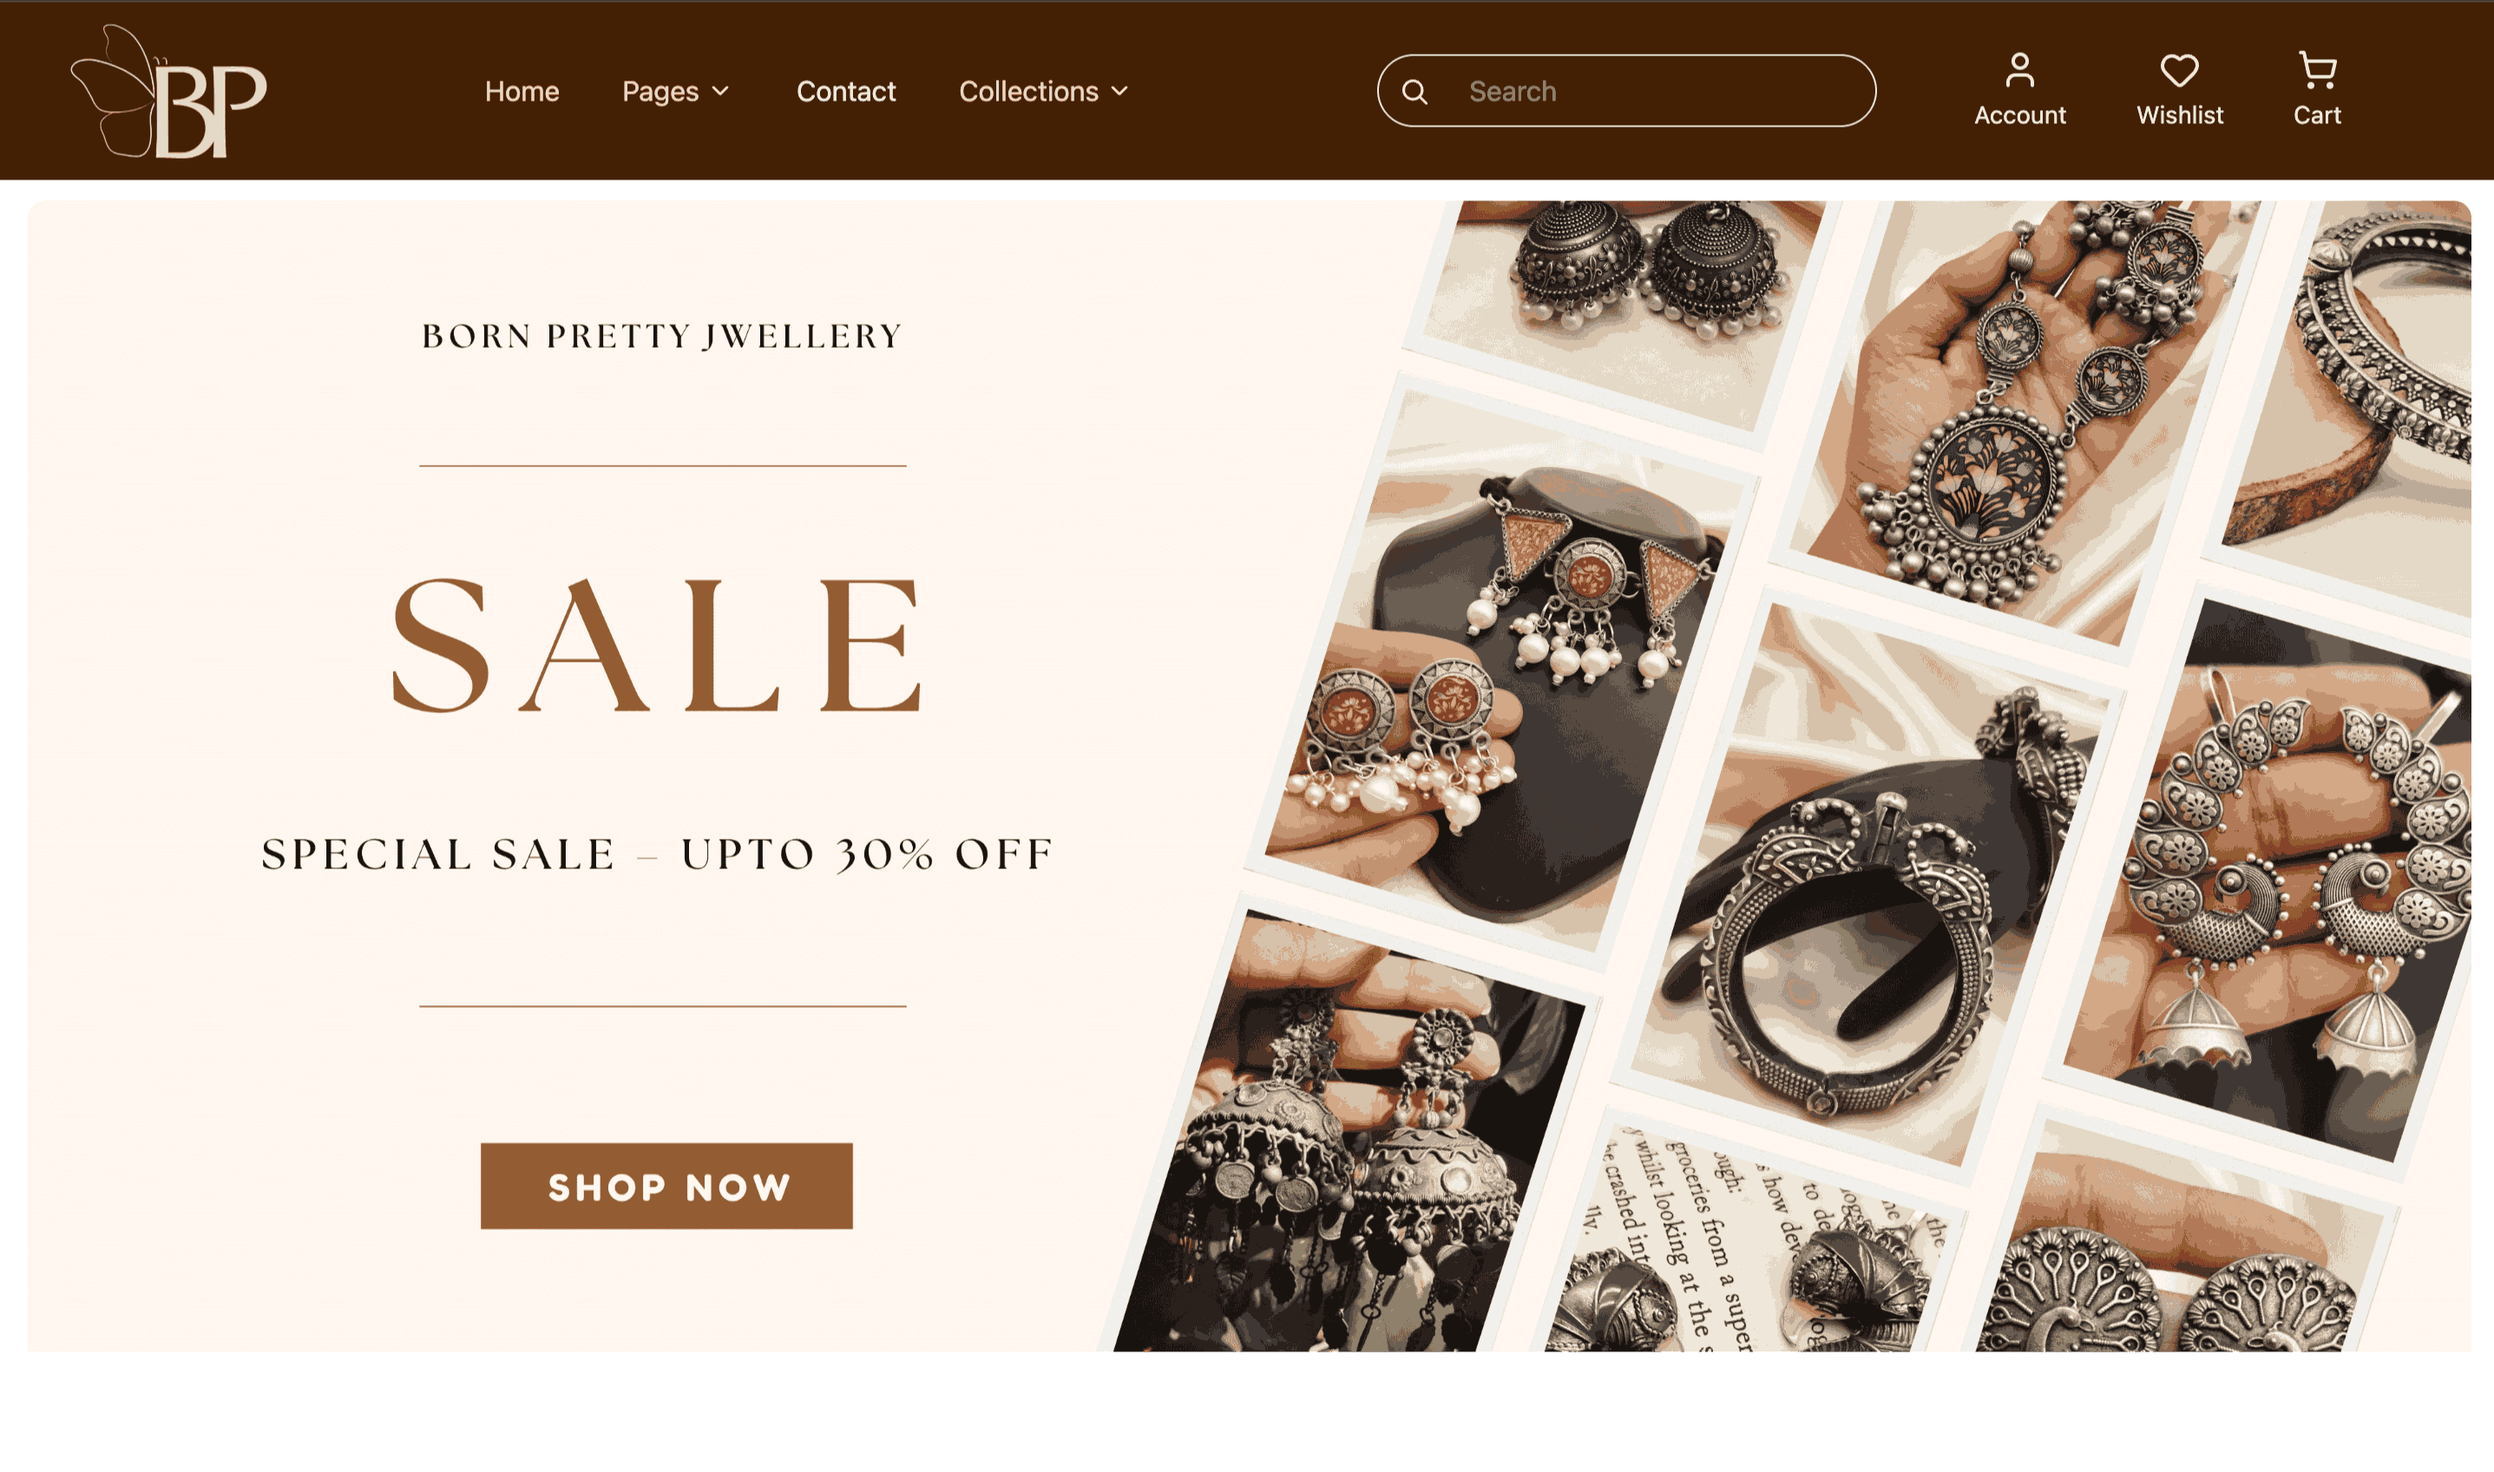
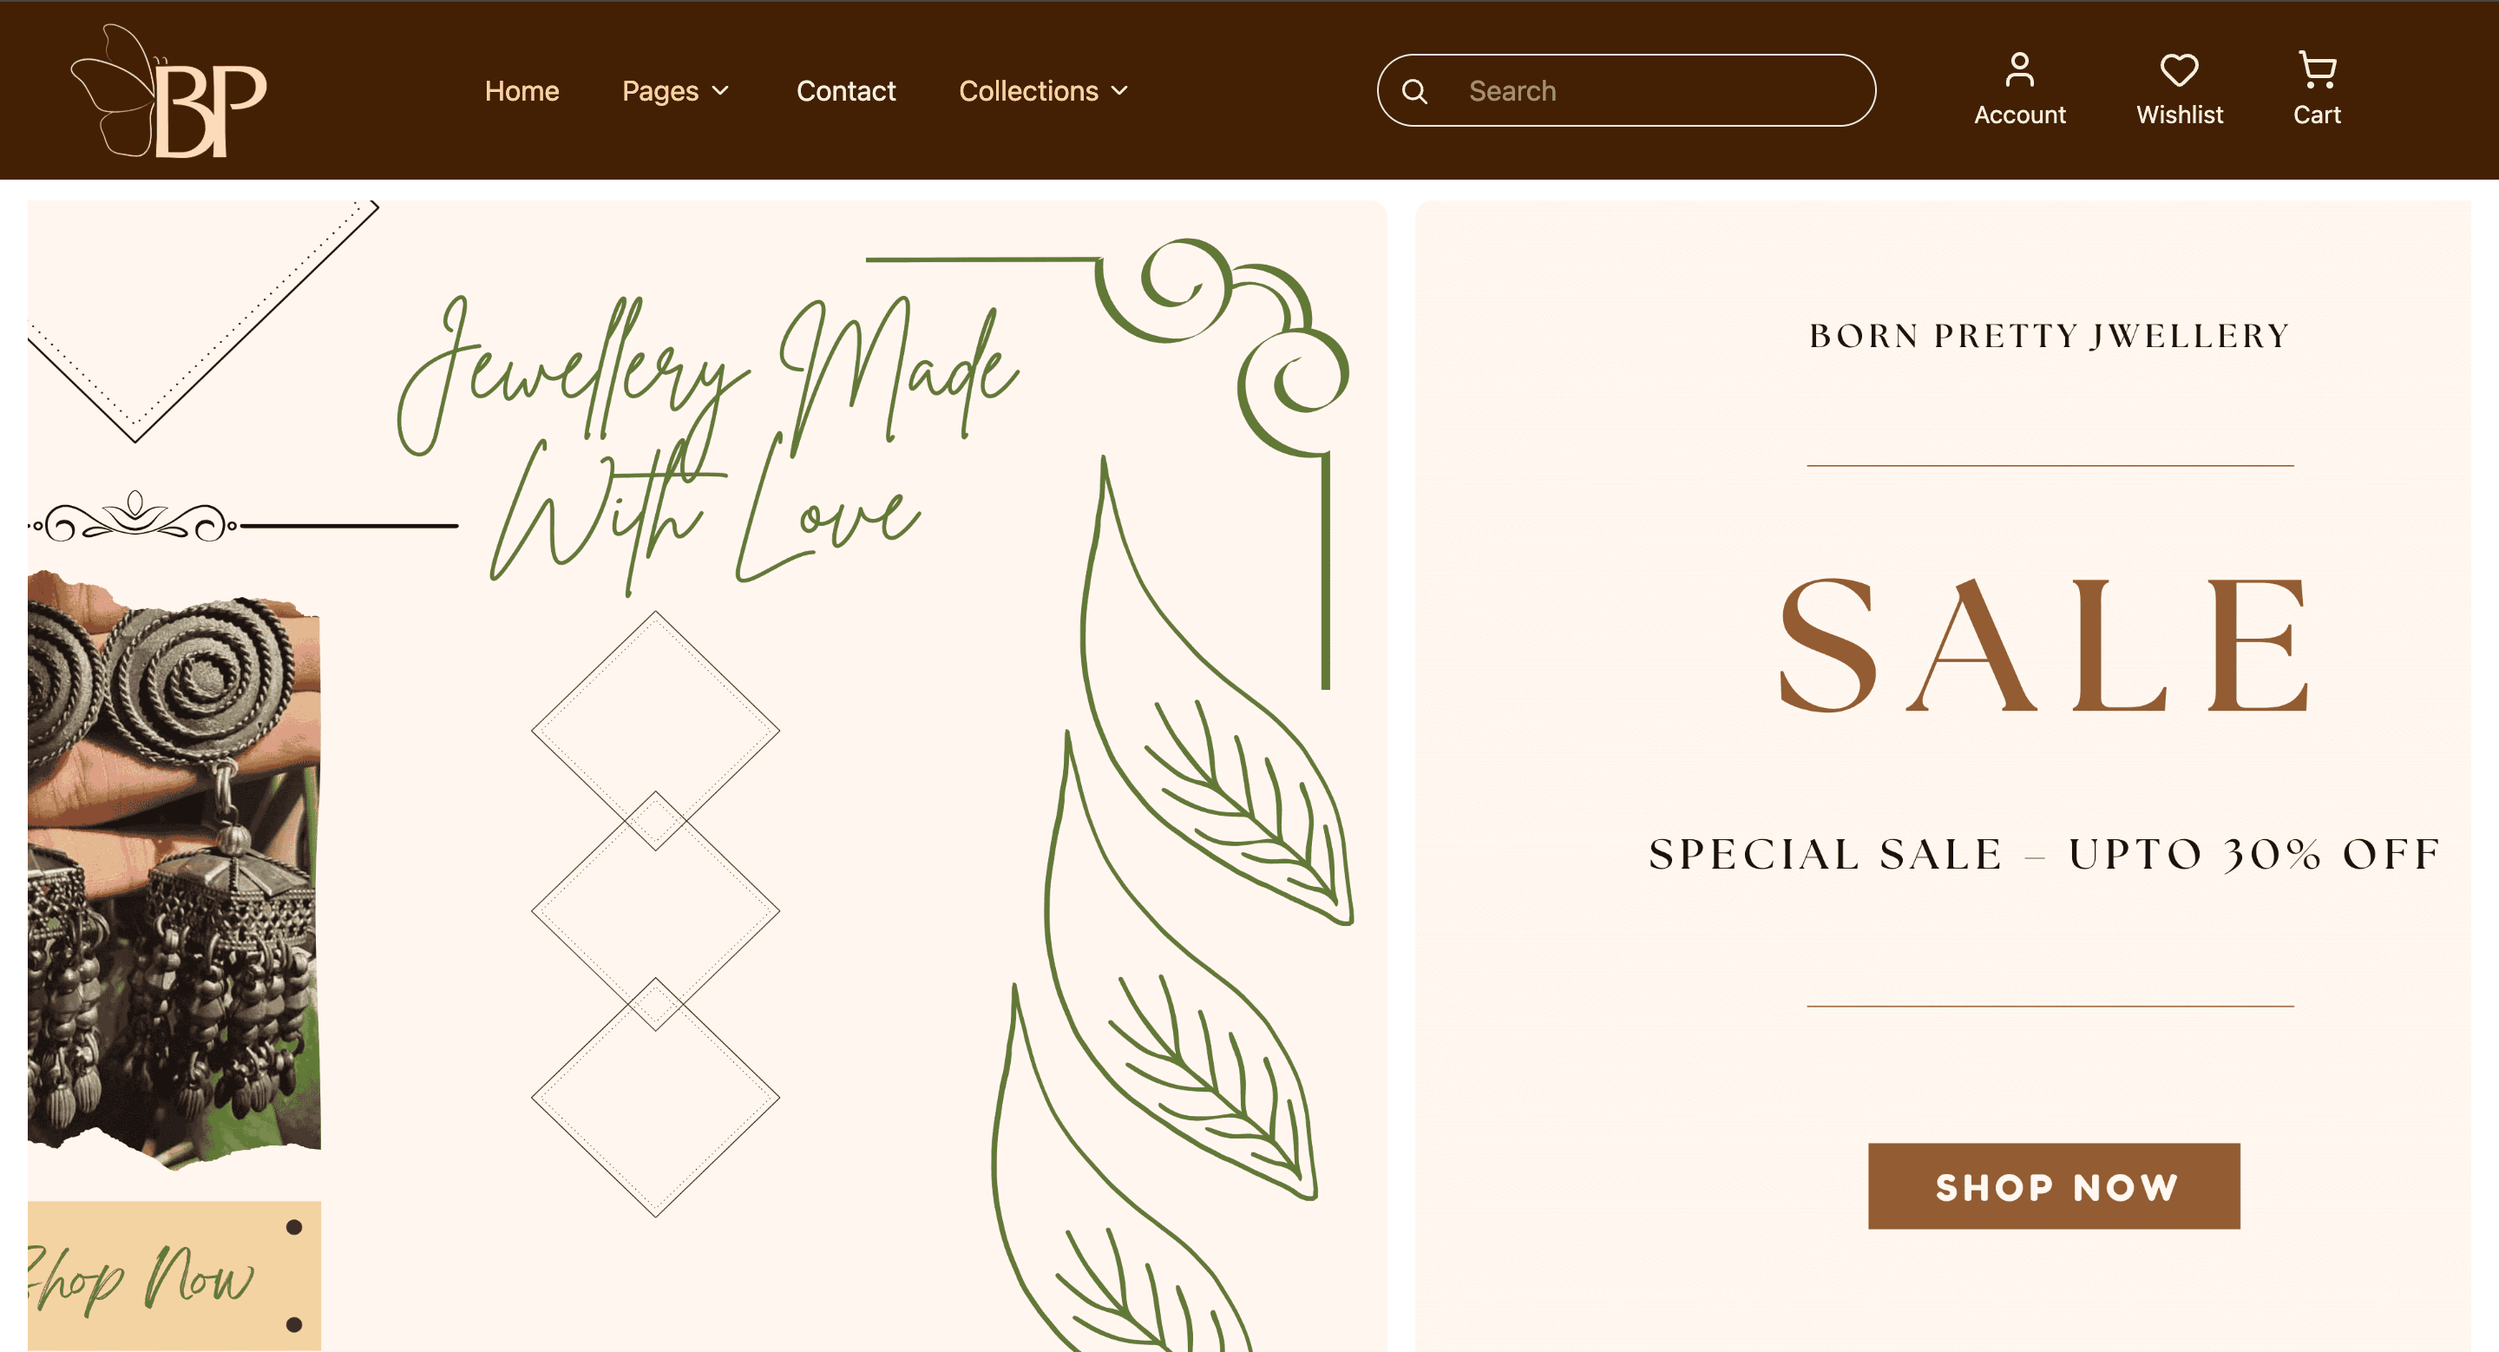
projet section update

diff --git a/Frontend/src/components/Projects.js b/Frontend/src/components/Projects.js
@@ -6,6 +6,7 @@ import bookstore from "../assets/img/Bookstore.png";
 import bornpretty from "../assets/img/Bornpretty.png";
 import portfolio from "../assets/img/portfolio.png";
 import microservice from "../assets/img/microservice.png";
+import finance from "../assets/img/finance.png";
 import React, { useEffect } from "react";
 import AOS from "aos";
 import "aos/dist/aos.css";
@@ -15,7 +16,7 @@ const projects = [
     title: "E-commerce Website",
     subtitle: "UI/UX Design, Full Stack, SpringBoot",
     description:
-      "A full-featured e-commerce store built with React and SpringBoot.",
+      "A full-featured e-commerce store built with React, SpringBoot, and PostgreSQL.",
     imgUrl: bornpretty,
     link: "https://bornpretty.onrender.com",
   },
@@ -44,7 +45,8 @@ const projects = [
   {
     title: "Bookstore REST API",
     subtitle: "Backend, Node.js",
-    description: "REST API for a book store with user authentication.",
+    description:
+      "REST API for a book store with user authentication, CRUD operations.",
     imgUrl: bookstore,
     link: "https://github.com/sajal327/Bookstore-REST-API",
   },
@@ -55,6 +57,14 @@ const projects = [
       "Web app to track workouts and progress visually with AI recommendations.",
     imgUrl: microservice,
     link: "https://github.com/sajal327/fitness-microservice",
+  },
+  {
+    title: "Finance Tracker",
+    subtitle: "Finsight – Personal Finance Tracker",
+    description:
+      "Full-stack personal finance tracker web app built with Next.js, PostgreSQL, and Prisma ORM.",
+    imgUrl: finance,
+    link: "https://github.com/sajal327/Finsight-Personal-Finance-Tracker",
   },
 ];
 
